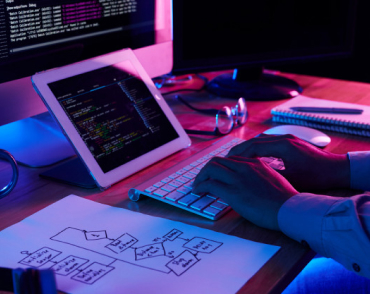
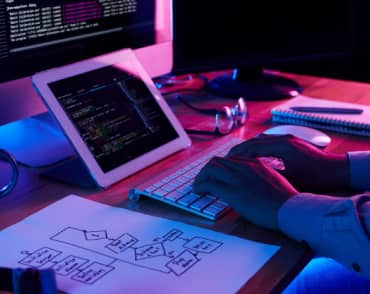
Po pierwszej aktualizacji
- optymalizacja zdjęć
- dodatnie opisu alt do zdjęć
- wyodrębnienie nazwy serwisu z nav
- dodanie kontakty do nav
- dodanie atrybutów wysokości i szerokości do zdjęć
- usunięcie div z kontaktów
- wyodrębnienie sekcji "czym się zajmujemy z articul
- wyodrębnienie adresu z listy do tagu address

diff --git a/index.html b/index.html
@@ -9,19 +9,19 @@
 
 	<body>
 		<header>
+			WebStudio
 			<nav>
 				<ul>
-					<li><a href="#"></a>WebStudio</li>
 					<li><a href="#"></a>Agencja</li>
 					<li><a href="#"></a>Portfolio</li>
+					<li><a href="#"></a>Kontakt</li>
 				</ul>
 			</nav>
-			<div>
-				<ul>
-					<li><a href="mailto:info@devstudio.com">info@devstudio.com</a></li>
-					<li><a href="tel:+48111111111">+48 111 111 111</a></li>
-				</ul>
-			</div>
+
+			<ul>
+				<li><a href="mailto:info@devstudio.com">info@devstudio.com</a></li>
+				<li><a href="tel:+48111111111">+48 111 111 111</a></li>
+			</ul>
 		</header>
 		<main>
 			<section>
@@ -29,7 +29,7 @@
 				<button type="button">Zamów usługę</button>
 			</section>
 
-			<section>
+			<article>
 				<ul>
 					<li>
 						<h3>LOREM IPSUM</h3>
@@ -60,22 +60,48 @@
 						obcaecati, aliquid eaque vitae.
 					</li>
 				</ul>
-				<article>
-					<h2>Czym się zajmujemy</h2>
-					<ul>
-						<li><img src="images/what-you-doing1.jpg" alt="" /></li>
-						<li><img src="images/what-you-doing2.jpg" alt="" /></li>
-						<li><img src="images/what-you-doing3.jpg" alt="" /></li>
-					</ul>
-				</article>
+			</article>
+			<section>
+				<h2>Czym się zajmujemy</h2>
+				<ul>
+					<li>
+						<img
+							src="images/what-you-doing1.jpg"
+							height="294"
+							width="370"
+							alt="Mężczyzna siedzi przy biurku i pisze kod na klawiaturze komputera. Obok klawiatury leży kartka z narysowanym schematem blokowym. "
+						/>
+					</li>
+					<li>
+						<img
+							src="images/what-you-doing2.jpg"
+							height="294"
+							width="370"
+							alt="Osoba trzyma telefon w lewej dłoni. Prawą dłoń ma umieszoną na gładziku komputera. Na ekranie komputera widać gify z telefonami"
+						/>
+					</li>
+					<li>
+						<img
+							src="images/what-you-doing3.jpg"
+							height="294"
+							width="370"
+							alt="Osoba trzyma tablet lewą ręką, w prawej trzyma długopis. Na tablecie jest wyświetlona paleta barw."
+						/>
+					</li>
+				</ul>
 			</section>
-			<h2>Nasz zespół</h2>
 
 			<section>
+				<h2>Nasz zespół</h2>
 				<ul>
 					<li>
 						<figure>
-							<img src="images/emp1.jpg" alt="" />
+							<img
+								src="images/emp1.jpg"
+								height="260"
+								width="270"
+								alt="Brodaty mężczyzna, w okularach. Ubrany jest w brązową dobrze dopasowaną koszulę."
+							/>
 							<figcaption>
 								<h4>John Doe</h4>
 								<p>Product Designer</p>
@@ -84,7 +110,12 @@
 					</li>
 					<li>
 						<figure>
-							<img src="images/emp2.jpg" alt="" />
+							<img
+								src="images/emp2.jpg"
+								height="260"
+								width="270"
+								alt="Dziewczyna, w bląd włosach. Ubrana w ciemną biznesową marynarkę. Ma okulary na twarzy i się usmiecha."
+							/>
 							<figcaption>
 								<h4>John Doe</h4>
 								<p>Frontend Developer</p>
@@ -93,7 +124,12 @@
 					</li>
 					<li>
 						<figure>
-							<img src="images/emp3.jpg" alt="" />
+							<img
+								src="images/emp3.jpg"
+								height="260"
+								width="270"
+								alt="Usmiechniety, młody mężczyzna, z delikatnym zarostem. Ubrany w białą koszulę."
+							/>
 							<figcaption>
 								<h4>John Doe</h4>
 								<p>Marketing</p>
@@ -102,7 +138,12 @@
 					</li>
 					<li>
 						<figure>
-							<img src="images/emp4.jpg" alt="" />
+							<img
+								src="images/emp4.jpg"
+								height="260"
+								width="270"
+								alt="Mężczyzna z zarostem. Ma okulary na twarzy. Ubrany w czarny t-shirt"
+							/>
 							<figcaption>
 								<h4>John Doe</h4>
 								UI Designer
@@ -114,8 +155,8 @@
 		</main>
 		<footer>
 			<h3>WebStudio</h3>
+			<address>m. Warszawa, Aleje Jerozolimskie 21</address>
 			<ul>
-				<li>m. Warszawa, Aleje Jerozolimskie 21</li>
 				<li><a href="mailto:info@example.com">info@example.com</a></li>
 				<li><a href="tel:+48111111111"></a>+48 111 111 111</li>
 			</ul>
